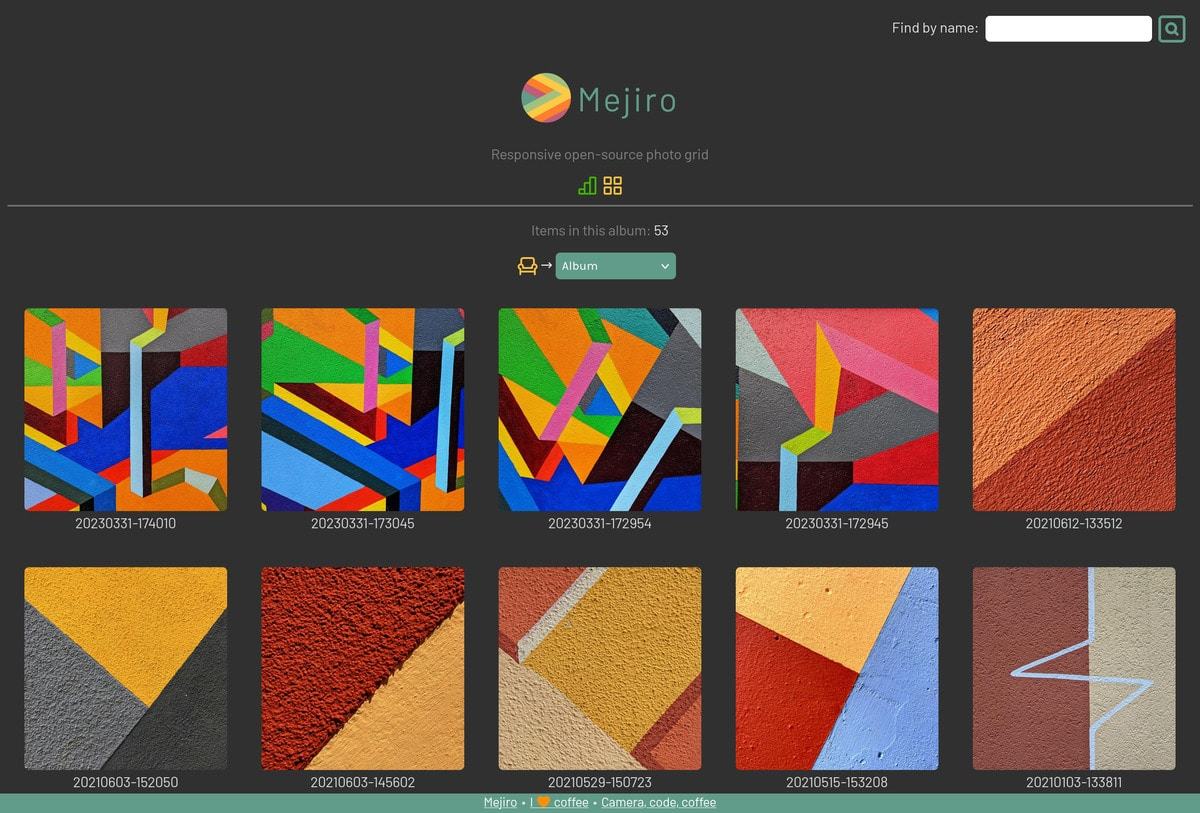
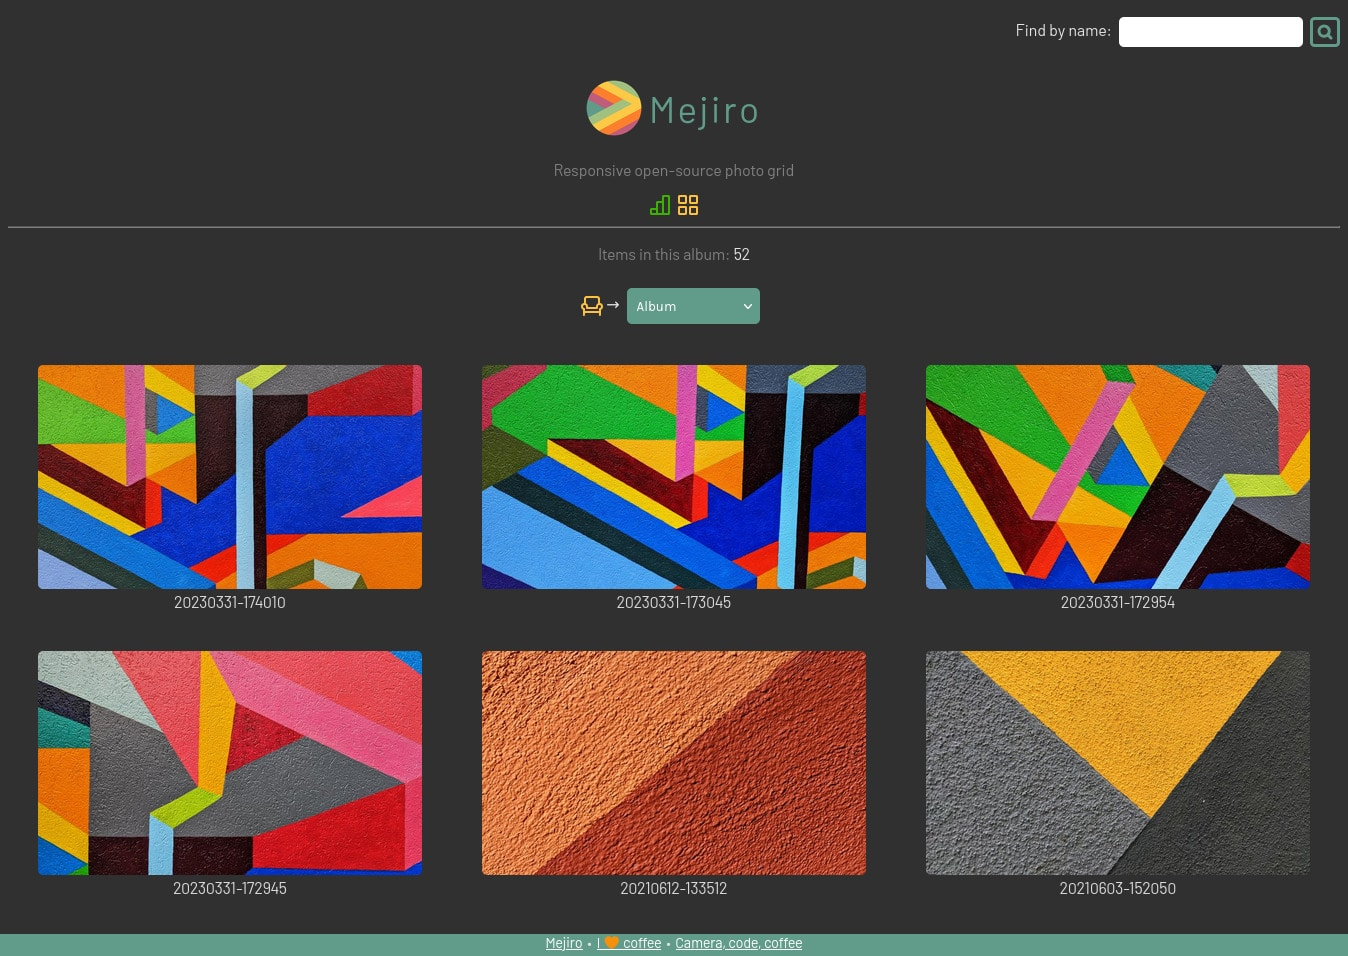
Change gallery image dimensions

diff --git a/styles.css b/styles.css
@@ -175,7 +175,7 @@ a:hover {
 /* The grid */
 .gallery-grid {
   display: grid;
-  grid-template-columns: repeat(auto-fit, minmax(250px, 1fr));
+  grid-template-columns: repeat(auto-fit, minmax(390px, 1fr));
   justify-items: center;
   margin: 0;
   padding: 0;
@@ -194,7 +194,7 @@ a:hover {
 .gallery-img {
   top: 0;
   left: 0;
-  width: 14em;
+  width: 24em;
   height: 14em;
   border-radius: 5px;
   object-fit: cover;
